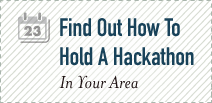
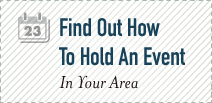
small styling changes all over the site

Changed region(s): [[0.2547, 0.4369, 0.934, 0.6408], [0.7642, 0.1748, 0.8491, 0.3786]]

diff --git a/media/styles/main.css b/media/styles/main.css
@@ -84,14 +84,14 @@ h2.ideas{ background: url(/media/images/icon_idea.png) top left no-repeat; paddi
 
 div.contentHeader, .h3line{ background: url(/media/images/header_lines.png) center bottom no-repeat; padding-bottom: 15px; margin-bottom: 20px; width: 700px;}
 div#postTitle{ margin-bottom: 3px;}
-body.projects div.contentHeader { margin-bottom: 3px;}
+body.projects div.contentHeader, div#headerTip { margin-bottom: 3px;}
 
 div#ltColumn h3{ font-size: 180%; line-height: 24px; margin-bottom: 15px; margin-top: 15px;}
 div#rtColumn h3 { background: url(/media/images/rtcolumn_headerLine.png) bottom center no-repeat; padding-left: 10px; margin-left: 20px; padding-bottom: 8px;}
 h3{ font-size: 180%; line-height: 25px; color:#1F1313;} 
 h3.space { margin-bottom: 20px;}
 div#ltColumn h3.leftH3 { padding-left: 5px; background: url(/media/images/header_lineShorter.png) bottom left no-repeat; padding-bottom: 10px; margin-bottom: 10px; margin-top: 0px;}
-div#ltColumn h3#skillsHeader { margin-top: 0;}
+div#ltColumn h3#skillsHeader { margin-top: 0; margin-bottom: 15px;}
 
 div#ltColumn h3#h3Header{ margin-bottom: 0; padding-left: 5px; width: 673px;}
 span#communityMembers { font-size: 160%;}
@@ -163,9 +163,9 @@ span#ideas{ background: url(/media/images/image_light.png) right top no-repeat; 
 
 hr{ background: url(/media/images/rtmodule_bar.png) bottom left no-repeat; border: none; height: 10px; margin-left:9px; margin-bottom: 30px;}
 
-div#leadBox{ -moz-border-radius: 3px; -moz-border-radius: 3px; background: #F0F0E5 none repeat scroll 0 0; border: 1px solid #D5D2C6; padding: 20px; width: 620px;}
+div#leadBox{ -moz-border-radius: 3px; -moz-border-radius: 3px; background: #F0F0E5 none repeat scroll 0 0; border: 1px solid #D5D2C6; padding: 20px; width: 620px; margin-top: 20px;}
 
-div#commentBox { margin-top: 20px; -moz-border-radius: 3px; -webkit-border-radius: 3px; background: #F0F0E5 none repeat scroll 0 0; border: 1px solid #D5D2C6; padding: 30px 30px 150px; margin-right: 20px;}
+div#commentBox { margin-top: 30px; -moz-border-radius: 3px; -webkit-border-radius: 3px; background: #F0F0E5 none repeat scroll 0 0; border: 1px solid #D5D2C6; padding: 30px 30px 150px; margin-right: 20px;}
 div#commentBlock img{ float: left;}
 form#comment { margin-right: 10px; width: 24px; height: 55px; margin-left: -1px; float: left; z-index: 2; position: relative;}
 form#comment textarea { -moz-border-radius: 10px; -webkit-border-radius: 10px; width: 480px;}
@@ -239,7 +239,7 @@ div#leadProjects { margin-bottom: 20px;}
 
 div#ltColumn div.smPost p { padding-right: 10px; margin-bottom: 15px;}
 div#ltColumn div.smPost { margin-bottom: 15px; padding-bottom: 15px;}
-div#ltColumn div.smPost img, div.post img, div#blog_detail img { border: 1px solid #c4bdbd; margin: 5px 0;}
+div#ltColumn div.smPost img, div.post img, div#blog_detail img { border: 3px solid #BFC8BA; margin: 5px 0;}
 div#ltColumn div.smPost h3, div#ltColumn div.post h3, div#ltColumn div#blog_detail h3, div#projects h3, div#ideas h3 { margin-bottom: 0;}
 div.smPost img{ max-width: 285px; }
 
@@ -338,12 +338,24 @@ div#project_mainDetails li { margin-bottom: 8px;}
 
 div#userTweets li{ margin-bottom: 25px;}
 
-div#user_map img { border: 4px solid #C4BDBD;}
-div#map_label { background-color: #C4BDBD; padding: 1px 5px 5px 8px; width: 193px; color: #1F1313;}
+div#user_map img { border: 4px solid #BFC8BA;}
+div#map_label { background-color: #BFC8BA; padding: 1px 5px 5px 8px; width: 193px; color: #1F1313;}
 a.center_viewall{ text-align: center; display: block;}
 
 div#rtColumn div#hackathonBox a{ text-indent: -9999em; display: block; width: 215px; height: 103px; background: url(/media/images/holdHackathon_box.png) 3px top no-repeat;}
-div#rtColumn div#hackathonBox { width: 215px; height: 103px; padding-left: 20px;}
+div#rtColumn div#hackathonBox { width: 215px; height: 103px; padding-left: 20px; margin-bottom: 20px;}
+
+div#ltColumn div#timeline h3 { margin-bottom: 15px;}
+div#ltColumn div#commentBox h3, div#leadBox h3 { margin-top: 0px;}
+
+div#ltColumn div#commentBlock img { border: none;}
+div#ltColumn div#commentBox h3#header_topSpace{ margin-top: 40px;}
+
+dd.event_location { margin-bottom: 25px;}
+div#currentEvents dt { font-size: 140%; margin-bottom: 10px;}
+
+div#haveEvent a{ text-indent: -9999em; display: block; width: 215px; height: 103px; background: url(/media/images/haveEvent_box.png) 3px top no-repeat;}
+div#haveEvent { width: 215px; height: 103px; padding-left: 20px; margin-bottom: 20px;}
 
 /*table*/
 div#users_results { margin-top: 25px; margin-bottom: 25px;}
@@ -362,7 +374,7 @@ button.advsearchBtn { background: url(/media/images/btn_search.png) left top no-
 button.submitBtn { background: url(/media/images/btn_submit.png) left top no-repeat; width: 113px; }
 a.interestedBtn { background: url(/media/images/btn_interested.png) right bottom no-repeat; width: 148px;  margin: 15px 0;}
 a.learnBtn{ background: url(/media/images/btn_learnmore.png) right bottom no-repeat; width: 140px; }
-a.agreeBtn{ background: url(/media/images/btn_agreemore.png) right bottom no-repeat; width: 140px; }
+button.agreeBtn{ background: url(/media/images/btn_agree.png) right bottom no-repeat; width: 86px; margin-top: 20px;}
 button.leadBtn{ background: url(/media/images/btn_lead.png) right bottom no-repeat; width: 148px; float: left;  margin: 20px 30px 20px 10px;}
 button.helpBtn{ background: url(/media/images/btn_help.png) right bottom no-repeat; width: 171px;  float: left; margin-top: 20px;}
 button.postBtn { background: url(/media/images/btn_post.png) right bottom no-repeat; width: 86px;}
@@ -374,7 +386,7 @@ button.joinBtn { background: url(/media/images/btn_join.png) right bottom no-rep
 button.signupBtn { background: url(/media/images/btn_joinus_sm.png) right bottom no-repeat; width: 113px; margin-left: 200px; margin-top: 20px;}
 button.signinBtn { background: url(/media/images/btn_signin.png) right bottom no-repeat; width: 113px; margin-left: 200px; margin-top: 20px;}
 button.submit-send { background: url(/media/images/btn_submit.png) left top no-repeat; width: 113px; margin-left: 200px;}
-
+button.startnewBtn { background: url(/media/images/btn_startnew.png) left top no-repeat; width: 247px; margin-top: 20px; }
 
 /*apps sponsors*/
 div#appsSponsors {padding-right: 15px;}

diff --git a/templates/people/search.html b/templates/people/search.html
@@ -25,10 +25,6 @@
         </div>
     </form>
 
-
-
-
-
 {% if searched %}
 	<div id="users_results" class="module">
     <h3>{{search_results|length}} Results For ""</h3>
@@ -55,7 +51,7 @@
 		</tbody>
 	   </table>
 	</div>
-</div>	
+	
 	
 {% endif %}
 </div>
@@ -78,11 +74,27 @@
 {% endblock %}
 
 {% block sidebar %}
-<h3>Community Profile</h3>
+<h3 class="space">Community Profile</h3>
 <div class="module">
 </div>
 <hr></hr>
-<div id="hackathonBox"><a href="#">Find Out How To Hold A Hackathon In Your Area</a></div>
+<h3 class="space">Current Events</h3>
+<div id="currentEvents" class="module">
+	<dl>
+		<dt><a class="eventTitle" href="#">Title of Event</a></dt>
+		<dd class="event_date">May 30</dd>
+		<dd class="event_location">Washington, DC</dd>
+		
+		<dt><a class="eventTitle" href="#">Title of Event</a></dt>
+		<dd class="event_date">May 30</dd>
+		<dd class="event_location">Washington, DC</dd>
+	</dl>
+	<a class="center_viewall" href="#">View All Events »</a>
+</div>
+<hr></hr>
+<div id="hackathonBox">
+	<a href="/events">Find Out How To Hold A Hackathon In Your Area</a>
+</div>
 <div class="clear"></div>
 {% endblock %}
 

diff --git a/templates/events/base.html b/templates/events/base.html
@@ -3,6 +3,22 @@
 {% block bodyclass %}people{% endblock %}
 
 {% block sidebar %}
-<h3 class="space">What Goes Here?</h3>
+<h3 class="space">Current Events</h3>
+<div id="currentEvents" class="module">
+	<dl>
+		<dt><a class="eventTitle" href="#">Title of Event</a></dt>
+		<dd class="event_date">May 30</dd>
+		<dd class="event_location">Washington, DC</dd>
+		
+		<dt><a class="eventTitle" href="#">Title of Event</a></dt>
+		<dd class="event_date">May 30</dd>
+		<dd class="event_location">Washington, DC</dd>
+	</dl>
+	<a class="center_viewall" href="#">View All Events »</a>
+</div>
+<hr></hr>
+<div id="haveEvent">
+	<a href="/events/new">Have An Event Planned? Tell The Community!</a>
+</div>	
 <div class="clear"></div>
 {% endblock %}

diff --git a/templates/ideas/idea_detail.html b/templates/ideas/idea_detail.html
@@ -16,6 +16,7 @@
 
         <!-- needs styling -->
         {% if idea.projects.count %}
+		<h4>Projects Created From This Idea</h4>
         <ul>
             {% for proj in idea.projects.all %}
             <li> <a href="{{proj.get_absolute_url}}">{{proj}}</a> was started by {{proj.lead}} on {{proj.creation_date|date}} </li>
@@ -23,11 +24,8 @@
         </ul>
         {% endif %}
 
-        <button class="helpBtn">
-            <span>Help On This Project</span>
-        </button>
-        <button class="leadBtn">
-            <span>Lead This Project</span>
+        <button class="startnewBtn">
+            <span>Start/Lead A New Project</span>
         </button>
         <div class="clear"></div>
 

diff --git a/templates/events/search.html b/templates/events/search.html
@@ -2,10 +2,12 @@
 
 {% block content %}
 <div class="contentHeader">
-    <h2>Search For Events In Your Area</h2>
+    <h2>Hold An Event in Your Area</h2>
 </div>
-<div class="module" id="searchContent">
-    <form id="searchForm" method="GET" action=".">
+<div class="module">
+	<p>This is where Clay will get into the details of how to hold an event in your area, blah, blah, blah</p>
+	<!--<div class="module" id="searchContent">
+ 	<form id="searchForm" method="GET" action=".">
         <ul>
             {{ form.as_ul }}
         </ul>
@@ -33,7 +35,7 @@
 
     This area is displayed if they user hasn't searched yet.
 
-{% endif %}
+{% endif %}-->
 
 </div>
 

diff --git a/templates/comments/comment_box.html b/templates/comments/comment_box.html
@@ -17,7 +17,7 @@
     </ol>
     {% endif %}
 
-    <h3 class="h3tip">What are Your Thoughts?</h3>
+    <h3 id="header_topSpace" class="h3tip">What are Your Thoughts?</h3>
     <p class="tip">Have thoughts that might fuel this discussion further, post them below. (<a href="http://daringfireball.net/projects/markdown/syntax">Markdown syntax</a> is supported in comments.)</p>
     <div id="commentBlock">
         <a class="userPhoto" href="{{comment.user.get_absolute_url}}">

diff --git a/templates/events/edit_event.html b/templates/events/edit_event.html
@@ -3,10 +3,9 @@
 {% block content %}
 <div class="module">
     <div class="contentHeader">
-        <h2>Event</h2>
+        <h2>Edit Your Event</h2>
     </div>
     <div class="module">
-        <p class="tip">I really should write something that goes here</p>
         <form id="accountForm" method="POST" action="." enctype="multipart/form-data">
             <ul>
                 {{ form.as_ul }}

diff --git a/templates/labs/index.html b/templates/labs/index.html
@@ -28,11 +28,11 @@
 {% endblock content %}
 
 {% block sidebar %}
-<h3>Active Projects</h3>
+<h3 class="space">Active Projects</h3>
 <div class="module">
 </div>
 <hr></hr>
-<h3>What's Happening In The Labs Community</h3>
+<h3 class="space">What's Happening In The Labs Community</h3>
 <div id="timeline" class="module">
     <ul>
         {% render_feed "main" 5 %}

diff --git a/media/scripts/labs.js b/media/scripts/labs.js
@@ -7,6 +7,10 @@ $(document).ready(function(){
 
     //$("form#standard_signupForm").hide();
     //$("form#standard_signinForm").hide();
+    
+    $("button.startnewBtn").click(function(){
+        $("div#leadBox").toggle("slow");
+    });
 
     $("li#signup_standard a").click(function(){
         $("form#openid_signupForm").hide();

diff --git a/templates/projects/project_detail.html b/templates/projects/project_detail.html
@@ -36,7 +36,7 @@
 
         {% tags_for_object project as skills %}
         <div id="languages">
-            <h3 id="skillsHeader">Skills</h3>
+            <h3 id="skillsHeader">Languages</h3>
             <ul>
                 {% for skill in skills %}
                 <li><a href="#">{{skill}}</a></li>

diff --git a/templates/people/profile.html b/templates/people/profile.html
@@ -93,6 +93,7 @@
         <li>{{tweet.text|twitterize}}</li>
     {% endfor %}
     </ul>
+	<a class="center_viewall" href="#">Go to {% possessive p_user %} twitter page »</a>
 </div>
 <div class="clear"></div>
 {% endblock sidebar %}

diff --git a/templates/people/edit_profile.html b/templates/people/edit_profile.html
@@ -2,7 +2,7 @@
 
 {% block content %}
 <div class="module">
-    <div class="contentHeader">
+    <div id="headerTip" class="contentHeader">
         <h2>Account Information</h2>
     </div>
     <div class="module">
